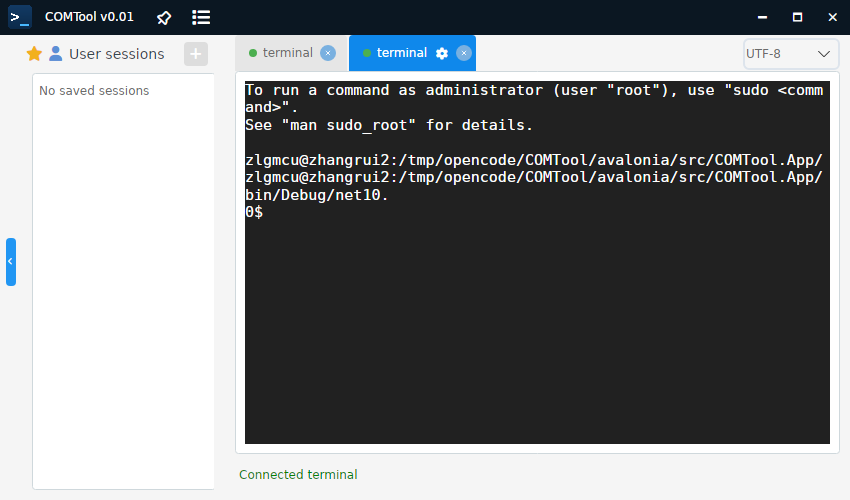
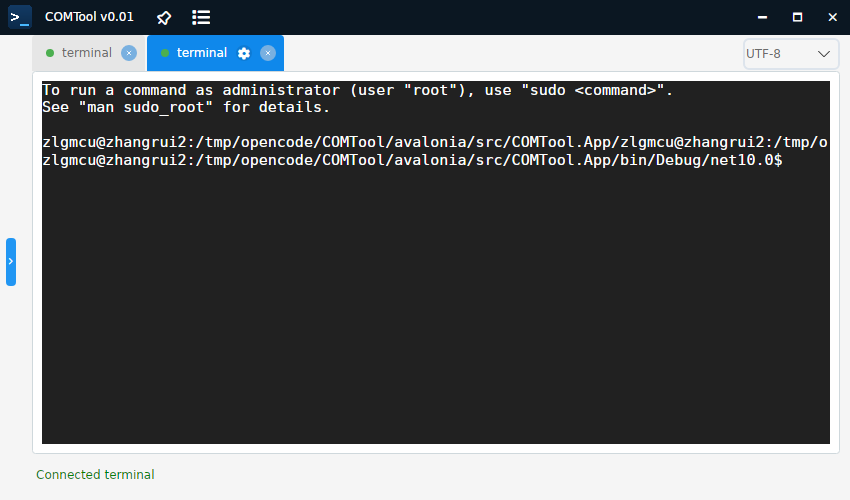
fix(avalonia): reveal tab settings gear only on hover
Keep the selected tab uncluttered at rest. Show the per-tab connection settings gear only while the pointer is over that selected tab, with the unselected tab never showing it. Add hover/selection regression coverage and update the UI-08 evidence and fixtures.

Changed region(s): [[0.0306, 0.06, 0.9788, 0.9], [0.2753, 0.93, 0.4282, 0.96], [0.0306, 0.93, 0.1835, 0.96]]

diff --git a/avalonia/tests/COMTool.App.Tests/SessionEditTests.cs b/avalonia/tests/COMTool.App.Tests/SessionEditTests.cs
@@ -144,11 +144,31 @@ public sealed class SessionEditTests
                 var secondGear = gears.Single(button =>
                     ReferenceEquals(button.DataContext, second));
                 Assert.False(firstGear.IsVisible);
-                Assert.True(secondGear.IsVisible);
+                Assert.False(secondGear.IsVisible);
                 Assert.Contains(
                     "settings",
                     ToolTip.GetTip(secondGear)?.ToString(),
                     StringComparison.OrdinalIgnoreCase);
+
+                // Hovering a tab does not reveal settings until that tab is selected.
+                first.IsTabHovered = true;
+                Dispatcher.UIThread.RunJobs();
+                Assert.False(firstGear.IsVisible);
+
+                viewModel.SelectedTab = first;
+                Dispatcher.UIThread.RunJobs();
+                Assert.True(firstGear.IsVisible);
+                Assert.False(secondGear.IsVisible);
+
+                viewModel.SelectedTab = second;
+                Dispatcher.UIThread.RunJobs();
+                Assert.False(firstGear.IsVisible);
+                Assert.False(secondGear.IsVisible);
+
+                // The selected tab reveals its settings gear while hovered.
+                second.IsTabHovered = true;
+                Dispatcher.UIThread.RunJobs();
+                Assert.True(secondGear.IsVisible);
 
                 secondGear.RaiseEvent(new RoutedEventArgs(Button.ClickEvent));
                 Dispatcher.UIThread.RunJobs();

diff --git a/avalonia/src/COMTool.App/Views/MainWindow.axaml.cs b/avalonia/src/COMTool.App/Views/MainWindow.axaml.cs
@@ -1615,6 +1615,22 @@ public partial class MainWindow : Window
         viewModel.AddTab(tab);
     }
 
+    private void OnTabPointerEntered(object? sender, PointerEventArgs e)
+    {
+        if (sender is Border { Tag: TerminalTab tab })
+        {
+            tab.IsTabHovered = true;
+        }
+    }
+
+    private void OnTabPointerExited(object? sender, PointerEventArgs e)
+    {
+        if (sender is Border { Tag: TerminalTab tab })
+        {
+            tab.IsTabHovered = false;
+        }
+    }
+
     private void OnTabPointerPressed(object? sender, PointerPressedEventArgs e)
     {
         if (sender is Border { Tag: TerminalTab tab } && DataContext is MainViewModel viewModel)

diff --git a/avalonia/src/COMTool.App/ViewModels/MainViewModel.cs b/avalonia/src/COMTool.App/ViewModels/MainViewModel.cs
@@ -66,6 +66,17 @@ public sealed partial class TerminalTab : ObservableObject
     private bool _isSelected;
 
     [ObservableProperty]
+    private bool _isTabHovered;
+
+    public bool ShowTabSettings => IsSelected && IsTabHovered;
+
+    partial void OnIsSelectedChanged(bool value) =>
+        OnPropertyChanged(nameof(ShowTabSettings));
+
+    partial void OnIsTabHoveredChanged(bool value) =>
+        OnPropertyChanged(nameof(ShowTabSettings));
+
+    [ObservableProperty]
     private bool _isAlive = true;
 
     [ObservableProperty]

diff --git a/docs/testing/feature-test-matrix.md b/docs/testing/feature-test-matrix.md
@@ -13,7 +13,7 @@
 | UI-05 | 完成 | UI05_TabSwitchReparentOrder,UI05_TabSwitchFocusesIncomingTerminal,UI05_TabSwitchKeepsBothTerminalsLive,UI05_RapidSwitchFocus,UI05_CloseSelectedTabSelectsNeighbor,UI05_ClosingLastTabClearsSelection | verify | all | dotnet test | - | 多标签新增/关闭/切换、双向切换后立即可输入由 headless 测试覆盖；Linux Xvfb 执行 UI05_TabSwitchTypingBothDirections |
 | UI-06 | 完成 | NewSessionMenuTests.UI06_NewSessionMenuReplacesPluginEntries,NewSessionMenuTests.UI06_NewSessionMenuItemsHaveMobaStyleIcons,NewSessionMenuTests.UI06_AddSessionMovedToSidebarAndFunctionalPanelRemoved,NewSessionMenuTests.UI06_SidebarNewSessionMenuAddsLocalTab,NewSessionMenuTests.UI06_NewSessionSettingsPreselectsRequestedTransport,NewSessionMenuTests.UI06_LocalTerminalEntryAddsLocalTab | verify | all | dotnet test | - | 空状态和 `User sessions` 侧栏标题两个 `+` 菜单只包含 Serial/SSH/Telnet/TCP/Local terminal，插件占位项已移除；侧栏标题 `+` 和空状态 `+` 的菜单内容、五种类型图标字形/颜色、四种连接类型预选和本地终端路由由 headless 测试覆盖；右上角 Functional 箭头按钮及 `Load config` / `Share config` 面板已按用户要求删除 |
 | UI-07 | 完成 | NewSessionMenuTests.UI07_EmptyStatePointsToNewSession | verify | all | dotnet test | - | 空状态文案以及空状态/侧栏标题两个 `+` 的 `New session` 提示由 headless 测试覆盖 |
-| UI-08 | 完成 | UI08_SettingsReplacesEditedTabOnly,UI08_DetachedEditedTabIsNotReplaced,UI08_WrongKindIsNotReplaced,UI08_SessionIdComparisonIsCaseInsensitive,SessionEditTests.UI08_TabSettingsGearTargetsSelectedTab | verify | all | dotnet test | - | 连接设置替换/复用标签策略由 SettingsTabPolicyTests 覆盖；齿轮位于选中标签内且标题指向该标签的回归测试覆盖；SSH/Telnet/TCP 设置页共用该策略 |
+| UI-08 | 完成 | UI08_SettingsReplacesEditedTabOnly,UI08_DetachedEditedTabIsNotReplaced,UI08_WrongKindIsNotReplaced,UI08_SessionIdComparisonIsCaseInsensitive,SessionEditTests.UI08_TabSettingsGearTargetsSelectedTab | verify | all | dotnet test | - | 连接设置替换/复用标签策略由 SettingsTabPolicyTests 覆盖；齿轮仅在选中标签悬停时显示、标题指向该标签由 headless 回归覆盖；SSH/Telnet/TCP 设置页共用该策略 |
 | UI-09 | 部分 | ConfigTests.SaveAndLoad_RoundTripsSessionSidebarAndTheme | verify | all | dotnet test | WIN-20 | skin 持久化和配置往返已自动化；标题栏右键浅/深色切换和重启生效需真实桌面视觉核对 |
 | UI-10 | 未开始 | - | manual | all | manual | - | 未开始 |
 | UI-11 | 部分 | - | manual | all | manual | WIN-10 | Windows 真实桌面 About/帮助入口与插件帮助、更新提示的视觉和交互核对；插件帮助和更新检测尚未实现，不能自动化 |

diff --git a/docs/parity-matrix.md b/docs/parity-matrix.md
@@ -17,7 +17,7 @@
 | UI-05 | 标签页与标题 | P0 | 完成 | 多标签新增/关闭/切换、标题规则、选中样式、状态圆点和双击分离/回接已完成；分离后命令可继续执行，关闭分离窗口无重复缓冲；切换标签前对旧终端调用 `BeginReparent`，避免内容宿主移除旧控件时清理 PTY 读取器，切换后直接输入即可继续执行，两个方向均已在打包版实测；见 `tab-switch-input-second-1000x650.png`、`tab-switch-input-first-1000x650.png` |
 | UI-06 | `+` 新建会话类型选择器 | P0 | 完成（MobaXterm 方向） | 按用户要求移除 Python 插件占位项（Send Receive/protocol/Graph/Load plugin）；空状态和侧栏标题两个 `+` 入口统一为 Serial/SSH/Telnet/TCP/Local terminal，选择后预选对应设置页或创建本地终端；菜单项使用与 MobaXterm 相近的类型图标（串口插头、SSH 服务器、Telnet 终端、TCP 网络、本地桌面），标题栏/窗口图标为深蓝终端图标；右上角 Functional 箭头按钮及 `Load config` / `Share config` 面板已按用户要求删除；Telnet 已作为 MobaXterm 会话类型接入，后续类型按阶段扩展，未实现类型不显示 |
 | UI-07 | 空状态 | P0 | 完成 | 无标签时显示 `Select a session from the left` / `or click + to add a session`，空状态和侧栏标题两个 `+` 入口提示 `New session`；headless 测试覆盖 |
-| UI-08 | 设置按钮与设置面板 | P0 | 完成 | 串口/SSH/Telnet 参数、SSH 密钥、记住密码、打开/关闭、侧栏同步已实现；连接设置齿轮位于选中标签页内，明确编辑该标签对应的会话，不再在标签栏左侧放全局齿轮；见 `tab-settings-gear-850x500.png` |
+| UI-08 | 设置按钮与设置面板 | P0 | 完成 | 串口/SSH/Telnet 参数、SSH 密钥、记住密码、打开/关闭、侧栏同步已实现；连接设置齿轮位于选中标签页内，默认隐藏，仅在鼠标悬停该选中标签时出现，明确编辑该标签对应的会话且不挤占标签标题；不再在标签栏左侧放全局齿轮；见 `tab-settings-gear-850x500.png` |
 | UI-09 | 主题切换（浅色/深色） | P0 | 部分 | 标题栏右键菜单可切换浅/深色，`skin` 持久化并重启生效 |
 | UI-10 | 语言切换 | P1 | 未开始 | 英文/简中/繁中/日文，文案一致 |
 | UI-11 | 帮助、关于、捐赠、更新提示 | P1 | 部分 | `About COMTool` 已包含版本、说明、配置路径、License、GitHub/Releases/Issues/捐赠链接；插件帮助和更新检测待补 |

diff --git a/docs/fixtures/phase1/README.md b/docs/fixtures/phase1/README.md
@@ -19,7 +19,8 @@ geometry. These are functional evidence images, not final pixel baselines.
 | `new-session-icons-850x500.png` | The `+` flyout shows MobaXterm-style type icons: green plug (Serial), blue server (SSH), teal terminal (Telnet), orange network (TCP), slate desktop (Local terminal). |
 | `sidebar-add-session-850x500.png` | The `+` new-session button now lives at the right of the `User sessions` sidebar header; its flyout opens next to the sidebar with Serial, SSH, Telnet, TCP and Local terminal. The toolbar encoding selector remains, and the Functional arrow/panel is gone. |
 | `sidebar-add-session-menu-stays-open-850x500.png` | Pointer hover on the sidebar `+` and its open new-session menu no longer retracts the sidebar; the menu stays open while moving onto its items. |
-| `tab-settings-gear-850x500.png` | The connection-settings gear now appears inside the selected tab, next to its close button, so it is unambiguous which tab it edits; unselected tabs show only their close button. |
+| `tab-settings-gear-at-rest-850x500.png` | Two tabs at rest: the selected tab shows only its title and close button, so the tab strip is not crowded. |
+| `tab-settings-gear-850x500.png` | Hovering the selected tab reveals the connection-settings gear inside that tab, next to its close button, so it is unambiguous which tab it edits; unselected tabs never show the gear. |
 | `sessions-850x500.png` | Config-backed sidebar shows remembered SSH sessions and no tabs after restart. |
 | `two-tabs-850x500.png` | Multiple SSH tabs are open; `win-ssh` is selected, `local-ssh` is not. Sidebar status dots reflect open sessions. |
 | `switch-tab-850x500.png` | Clicking the `local-ssh` tab switches the terminal content back without reconnecting. |
